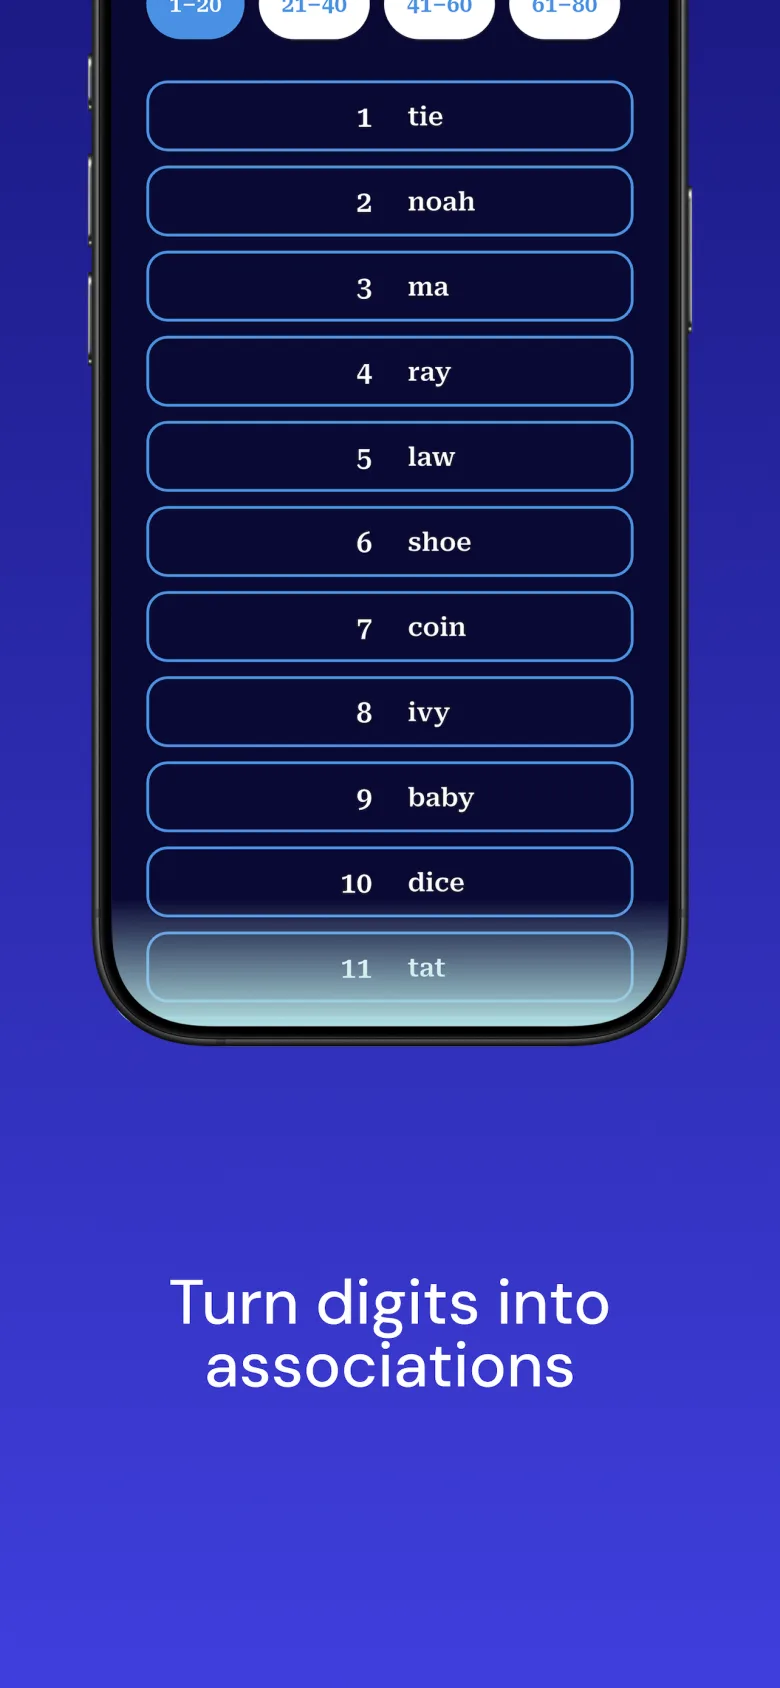
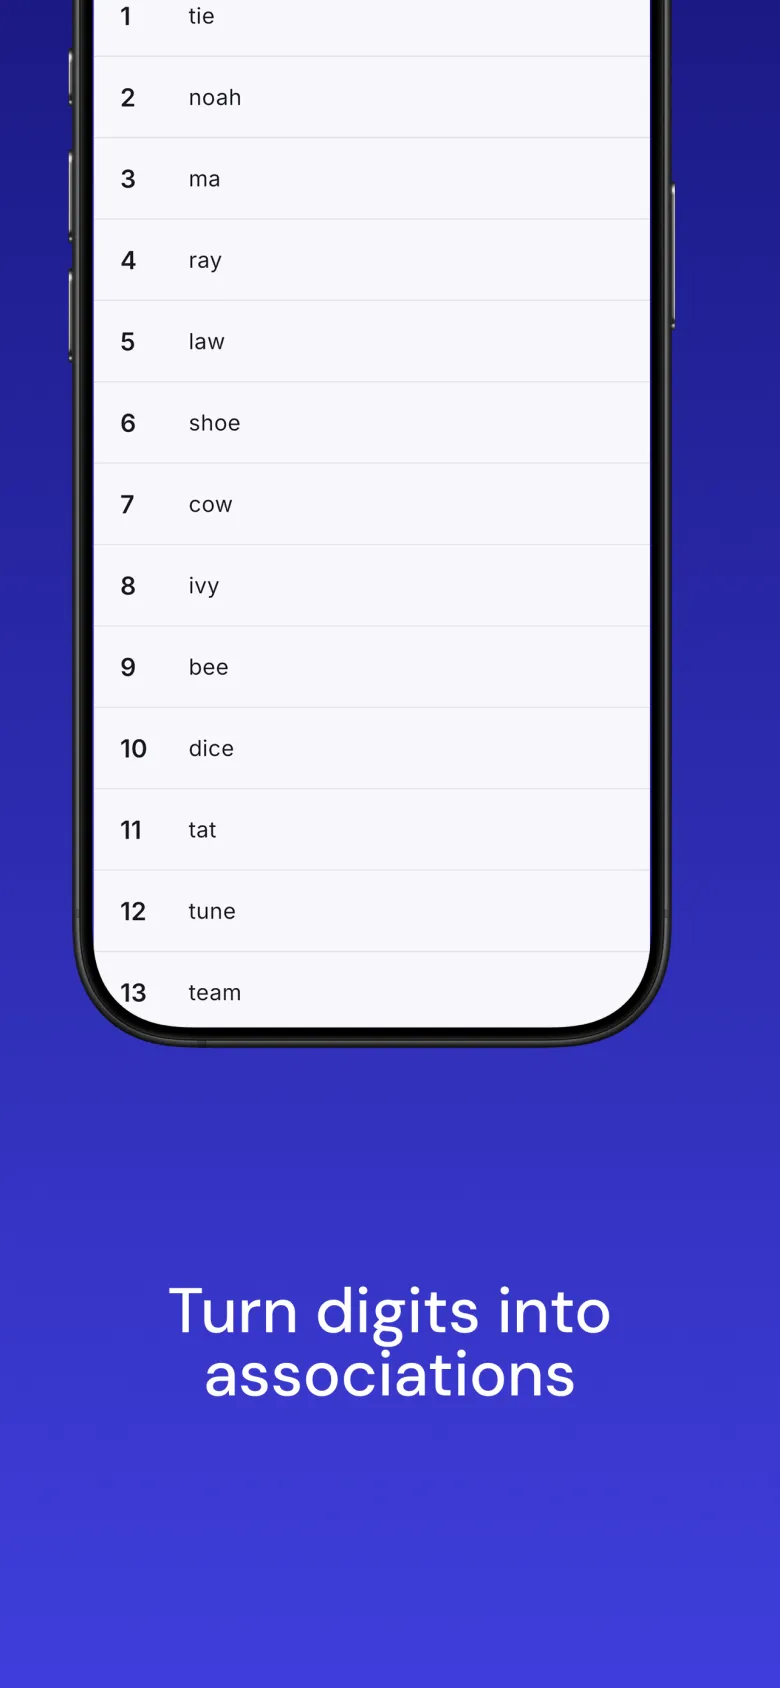
Update app screenshots on the home page
Replace the three screenshots with the latest App Store images and
rename screenshot_onboarding to screenshot_pin_breakdown to match its
new content. Update the semantic labels accordingly.

diff --git a/lib/ui/features/home/views/sections/screenshots_section.dart b/lib/ui/features/home/views/sections/screenshots_section.dart
@@ -8,15 +8,15 @@ import '../../../../core/widgets/section_heading.dart';
 const _screenshots = [
   (
     asset: 'assets/images/screenshot_associations.webp',
-    label: 'The app listing numbers 1 to 20 with a word for each',
+    label: 'Turn digits into associations: numbers listed with a word for each',
   ),
   (
     asset: 'assets/images/screenshot_custom_system.webp',
-    label: 'Editing your own word for each number',
+    label: 'Build your own memory system: edit the word for each number',
   ),
   (
-    asset: 'assets/images/screenshot_onboarding.webp',
-    label: 'Onboarding: turn numbers into associations your brain remembers',
+    asset: 'assets/images/screenshot_pin_breakdown.webp',
+    label: 'Never forget PINs again: a number broken down into memorable words',
   ),
 ];
 
